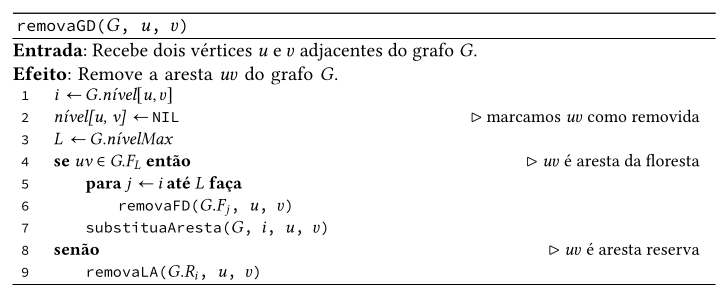
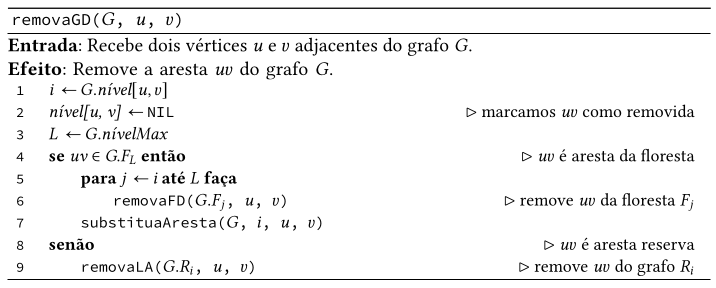
chore: update text

diff --git a/thesis/content/chapter-1.tex b/thesis/content/chapter-1.tex
@@ -939,10 +939,10 @@ Em particular, essa rotina deve percorrer as arestas da floresta e as arestas re
     L := $\dotvar{G}{nívelMax}$
     \textbf{se} uv $\in$ G.$F_{L}$ \textbf{então}  (*@\hfill $\triangleright$ $uv$ é aresta da floresta@*)
         \textbf{para} j := i \textbf{até} $L$ \textbf{faça}
-            \texttt{removaFD($G.F_j$, $u$, $v$)}
+            \texttt{removaFD($G.F_j$, $u$, $v$)} (*@\hfill $\triangleright$ remove $uv$ da floresta $F_j$ @*)
         \texttt{substituaAresta($G$, $i$, $u$, $v$)}
     \textbf{senão} (*@\hfill $\triangleright$ $uv$ é aresta reserva@*)
-        \texttt{removaLA($G.R_i$, $u$, $v$)}
+        \texttt{removaLA($G.R_i$, $u$, $v$)} (*@\hfill $\triangleright$ remove $uv$ do grafo $R_i$ @*)
     \end{lstlisting}
     \vspace{-0.5\baselineskip}
 \end{programruledcaption}
